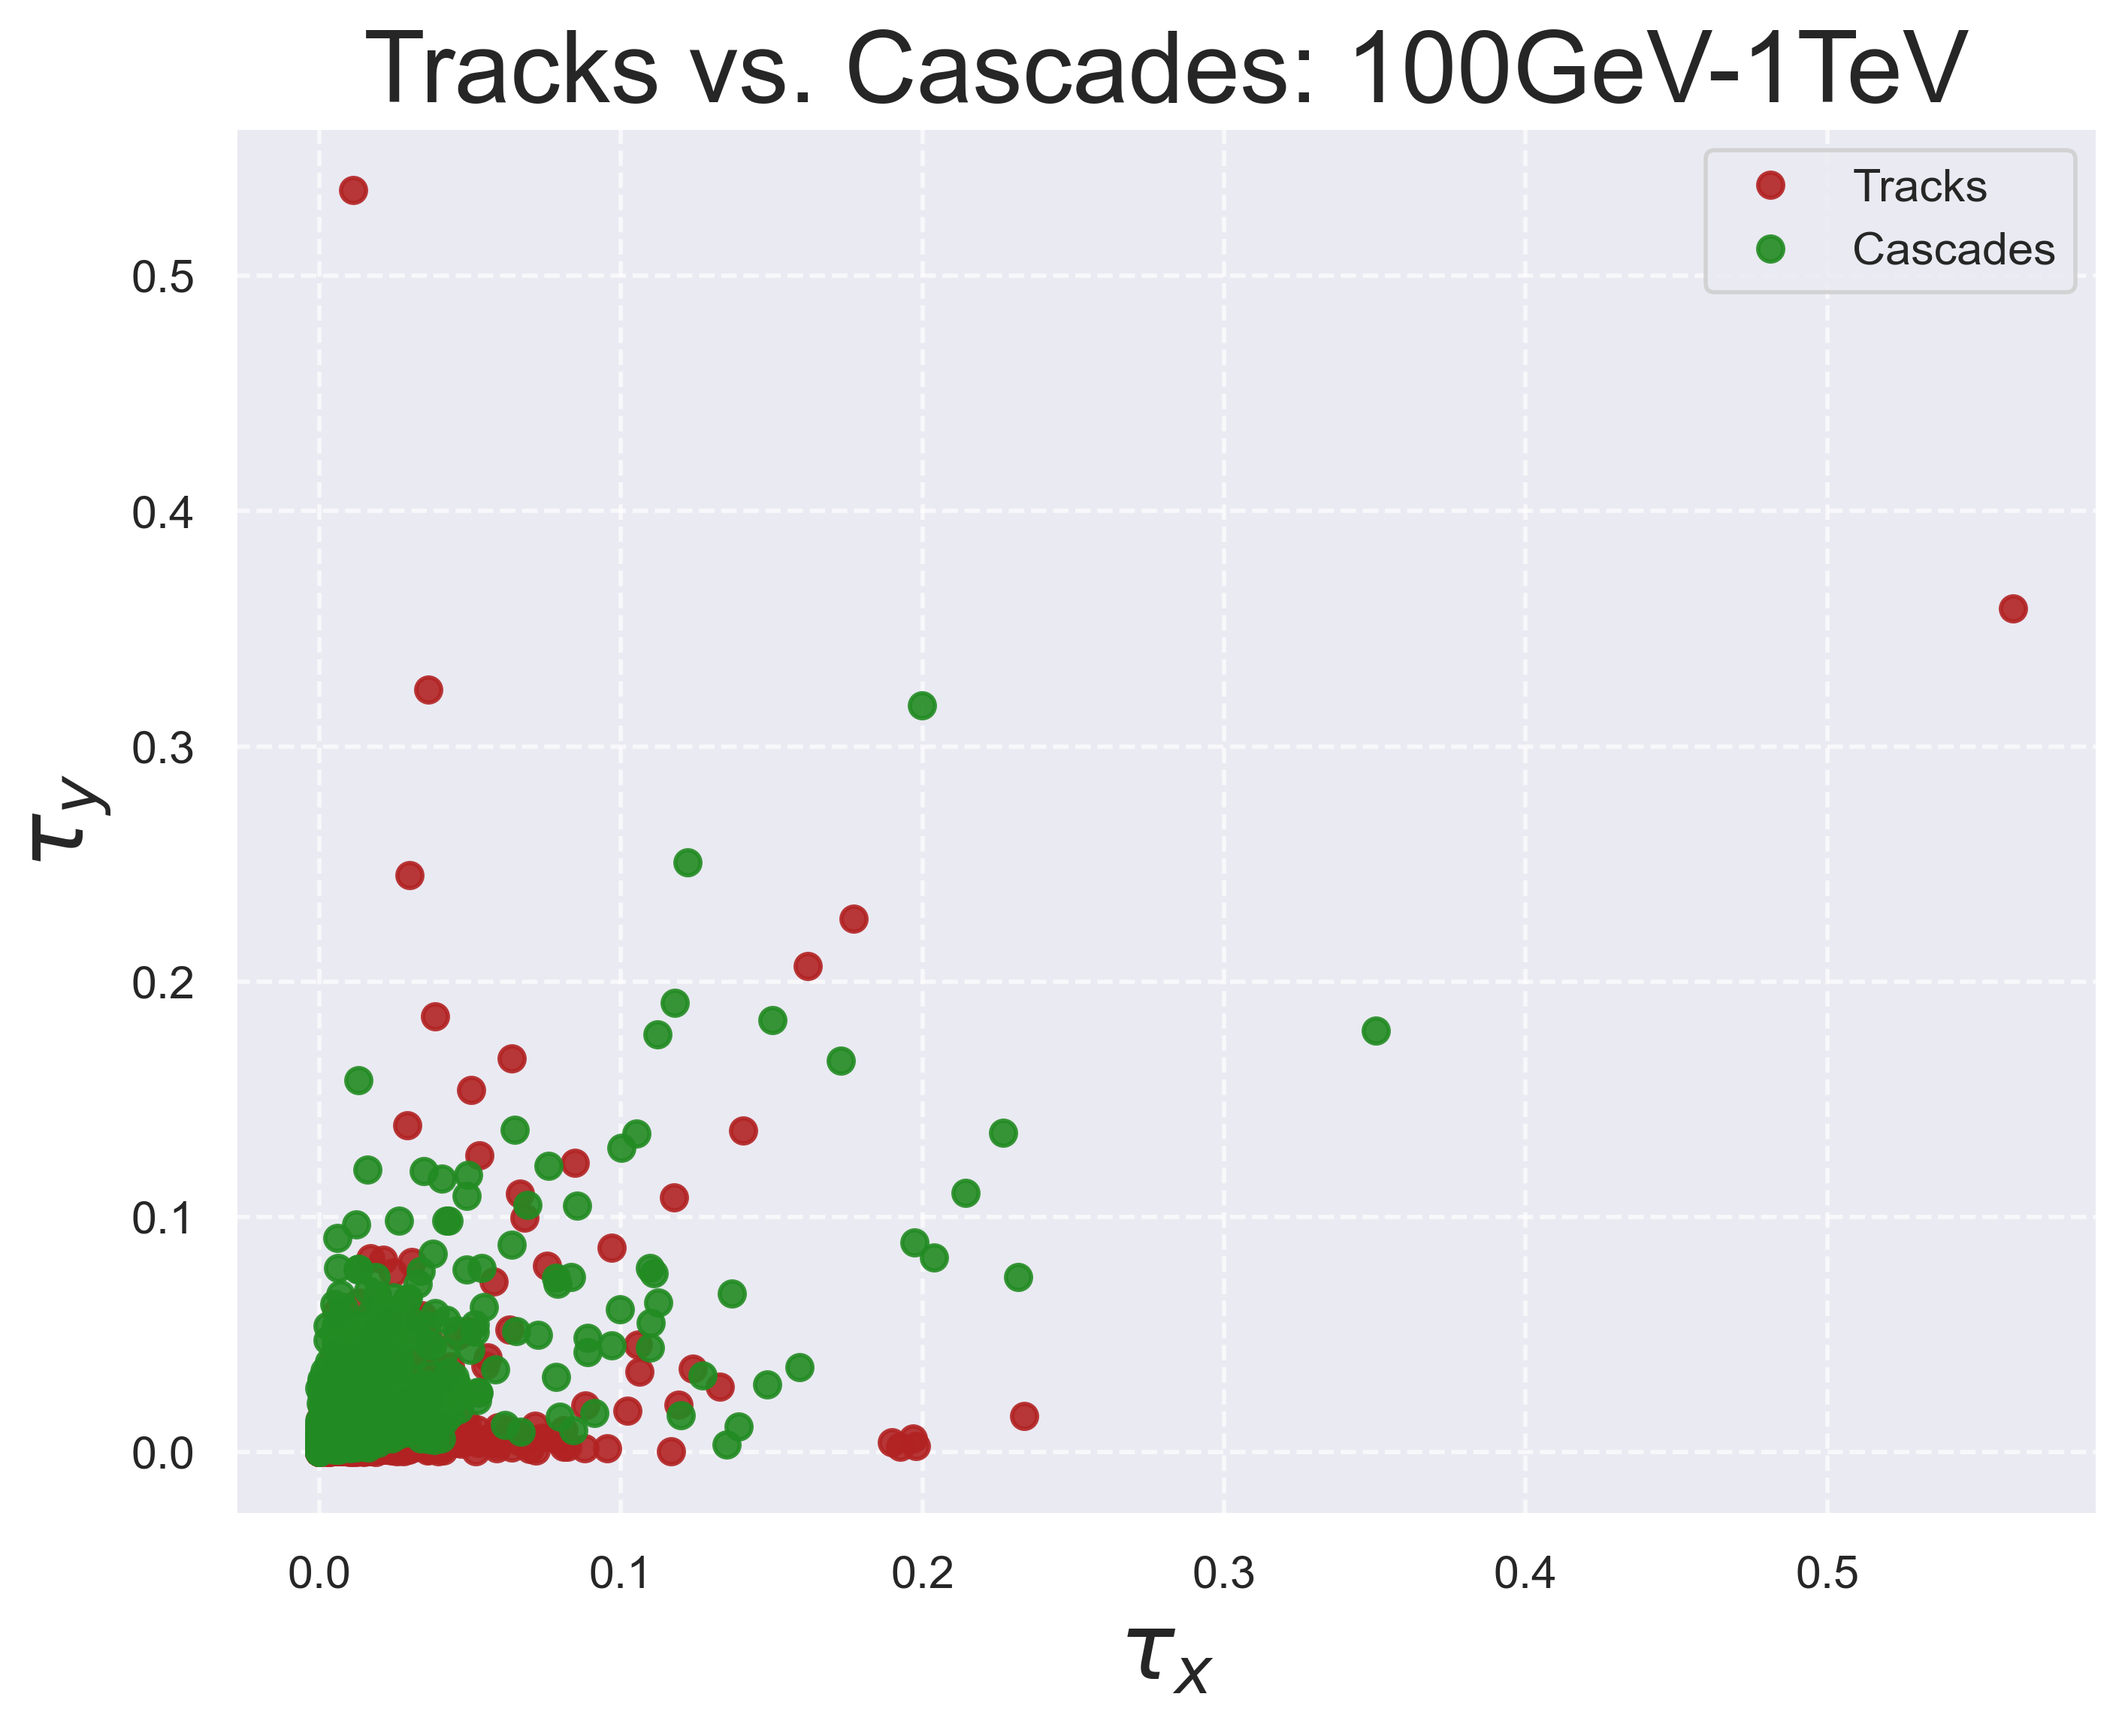
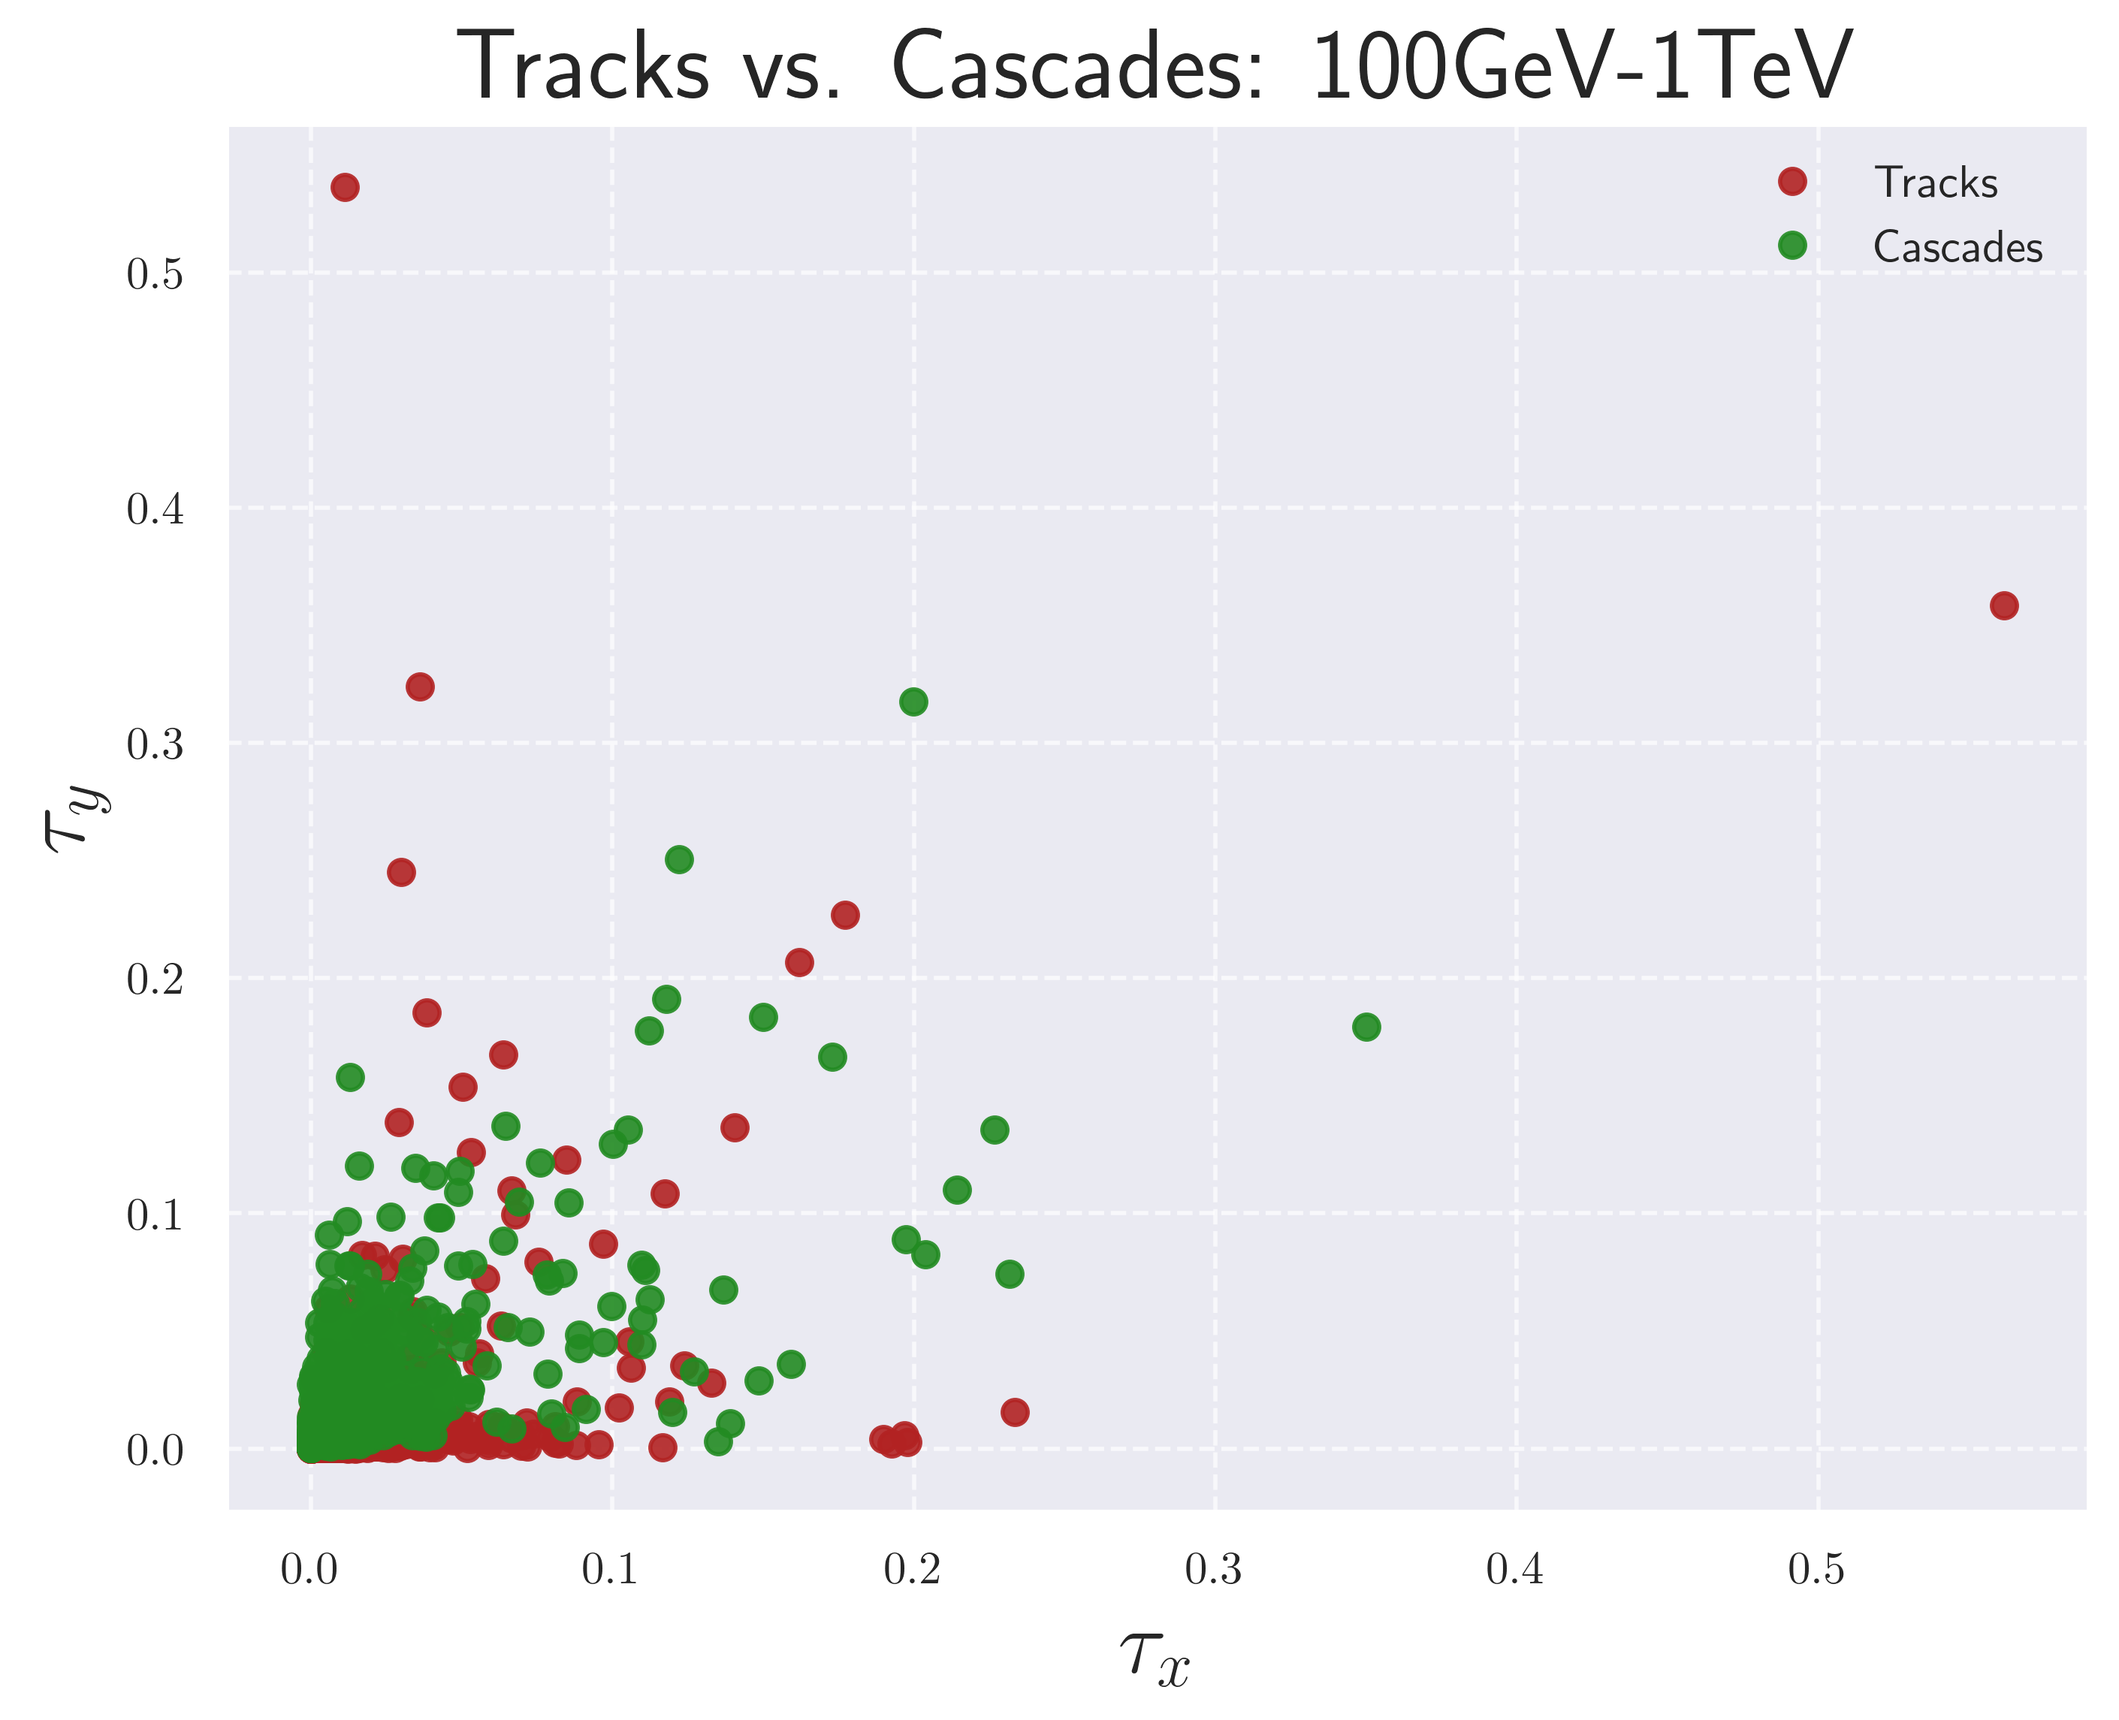
qcnn_withjax transition to main branch

diff --git a/lppc_qcnn/load_qc_data.py b/lppc_qcnn/load_qc_data.py
@@ -3,7 +3,10 @@
 #### ***** IMPORTS / DEPENDENCIES *****:
 
 ### *** PLOTTING ***:
+import matplotlib as mpl
 import matplotlib.pyplot as plt
+
+plt.style.use('./qcnn-figures/chisholm-lppc.mplstyle')
 
 ### *** PENNYLANE ***:
 from pennylane import numpy as np

diff --git a/lppc_qcnn/circuit_layers.py b/lppc_qcnn/circuit_layers.py
@@ -5,7 +5,8 @@
 ### *** PLOTTING ***:
 import matplotlib as mpl
 import matplotlib.pyplot as plt
-mpl.rcParams['font.family'] = 'DejaVu Sans'
+
+plt.style.use('./qcnn-figures/chisholm-lppc.mplstyle')
 
 ### *** PENNYLANE ***:
 import pennylane as qml
